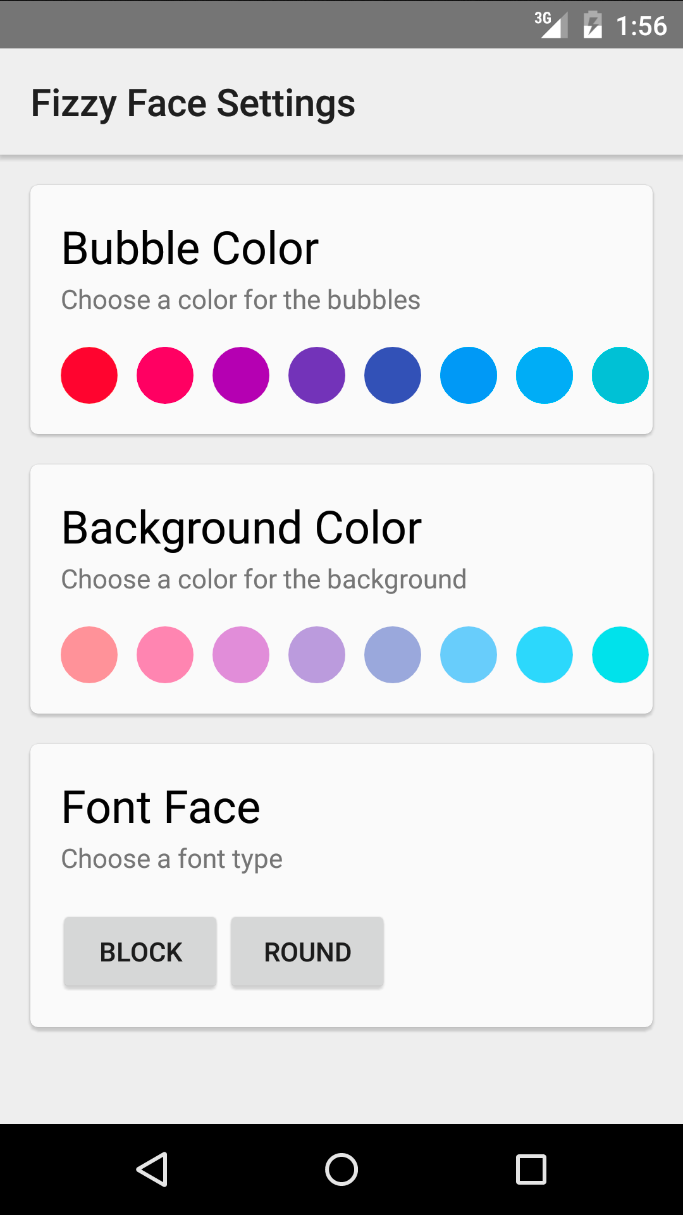
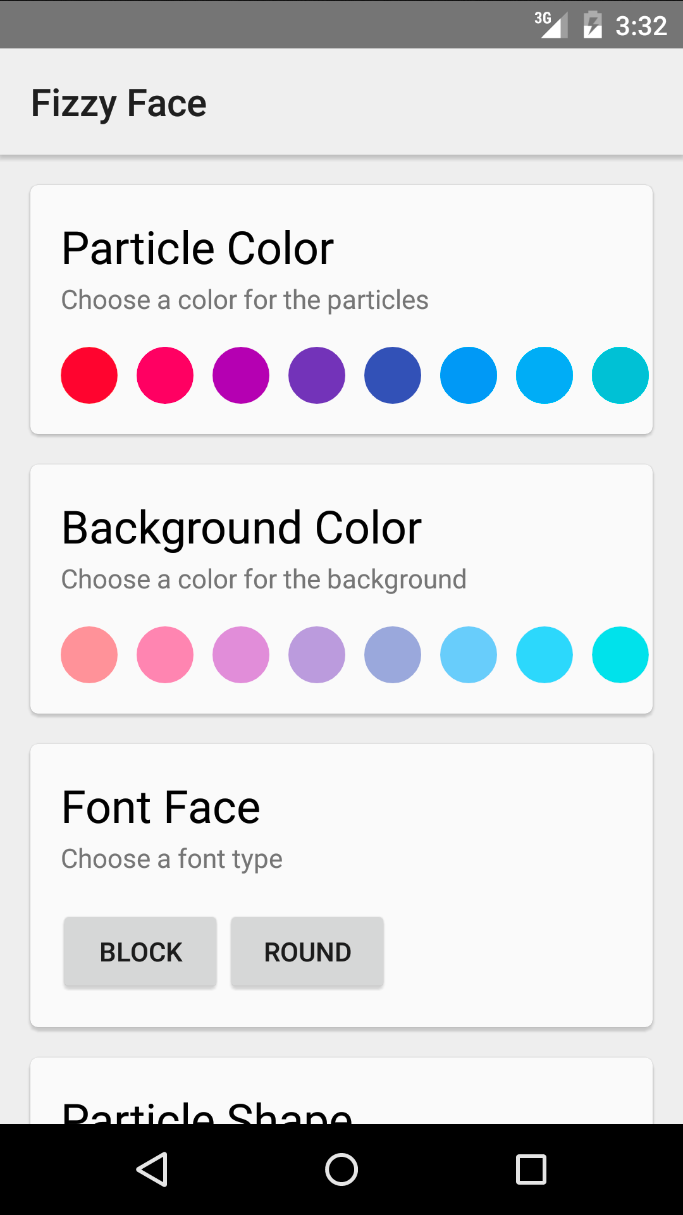
update default colors and ambient mode

diff --git a/wear/src/main/java/com/roboshoes/motion/Motion.java b/wear/src/main/java/com/roboshoes/motion/Motion.java
@@ -36,7 +36,7 @@ public class Motion {
     }
 
     private float[] getRandomPoint() {
-        float[] point = MathUtils.polarToCartesion( ( float ) Math.random() * MathUtils.TAU, radius );
+        float[] point = MathUtils.polarToCartesion( (float) Math.random() * MathUtils.TAU, radius );
 
         point[ 0 ] += center[ 0 ];
         point[ 1 ] += center[ 1 ];
@@ -57,16 +57,26 @@ public class Motion {
         anchors[ 2 ] = getRandomPoint();
     }
 
+    private void shiftAnchors() {
+        anchors[ 0 ] = anchors[ 1 ];
+        anchors[ 1 ] = anchors[ 2 ];
+        anchors[ 2 ] = getRandomPoint();
+    }
+
     public void update( boolean fullUpdate ) {
 
-        if ( fullUpdate ) currentTime = 0.99f;
-        else currentTime += speed;
+        currentTime += speed;
 
-        if ( currentTime >= 1.0f ) {
-            anchors[ 0 ] = anchors[ 1 ];
-            anchors[ 1 ] = anchors[ 2 ];
-            anchors[ 2 ] = getRandomPoint();
+        if ( fullUpdate ) {
 
+            shiftAnchors();
+            shiftAnchors();
+            initCurve();
+            currentTime = 1.0f;
+
+        } else if ( currentTime >= 1.0f ) {
+
+            shiftAnchors();
             initCurve();
             currentTime -= 1.0f;
         }

diff --git a/wear/src/main/java/com/roboshoes/fizzy/FizzyFace.java b/wear/src/main/java/com/roboshoes/fizzy/FizzyFace.java
@@ -106,12 +106,12 @@ public class FizzyFace extends CanvasWatchFaceService {
                     .setShowSystemUiTime( false )
                     .build() );
 
-            backgroundPaint = new Paint();
-            backgroundPaint.setColor( 0xFFA5D6A7 );
-
             bubblePaint = new Paint();
-            bubblePaint.setColor( 0xFF00BCD4 );
+            bubblePaint.setColor( 0xFFFFDE00 );
             bubblePaint.setAntiAlias( !isAmbient );
+
+            backgroundPaint = new Paint();
+            backgroundPaint.setColor( 0xFF2B1330 );
 
             bubbleController = new BubbleController( backgroundPaint, bubblePaint );
 

diff --git a/mobile/src/main/java/com/roboshoes/fizzy/ui/Colors.java b/mobile/src/main/java/com/roboshoes/fizzy/ui/Colors.java
@@ -3,6 +3,8 @@ package com.roboshoes.fizzy.ui;
 
 public class Colors {
 
+    public static final int[] BASE = { 0xFFFFDE00, 0xFF2B1330 };
+
     public static final int[] FOREGROUND = {
             0xFFF44336,
             0xFFE91E63,
